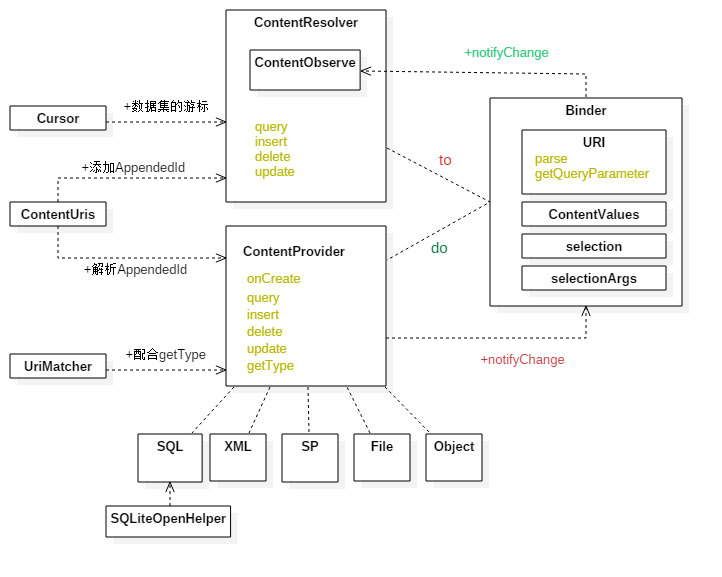
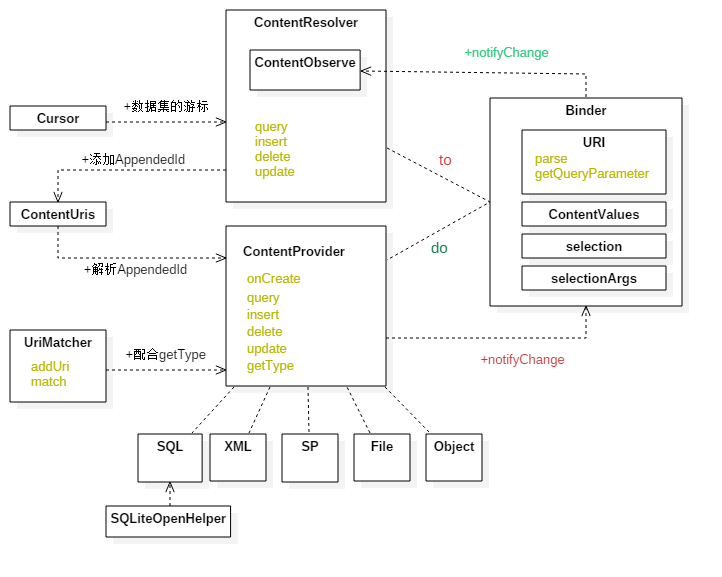
change

Changed region(s): [[0.0, 0.5615, 0.1524, 0.7175], [0.0914, 0.2496, 0.3047, 0.312]]

diff --git a/_posts/2019-09-09-ContentProvider-2019.md b/_posts/2019-09-09-ContentProvider-2019.md
@@ -22,29 +22,13 @@ tags:                               #标签
 
 
 
-### 原理
+### 原理介绍
 
-<img src="../img/post/android/picture/contentProvider_theory.png" />
-
-
-
-### 作用
-
-contentProvider 的作用是为应用提供不同数据的接口，用过contentProvider统一获取资源。
+<img src="https://www.crabglory.club/img/post/android/picture/contentProvider_theory.png" />
 
 
 
-
-
-### 使用
-
-URL：contentProvider 用来处理资源定位
-
-ContentUris：解析URI中的id
-
-UriMatcher：根据自己设定的URI，来匹配客户端发来的URI
-
-
+主要是两个主类：ContentResolve 和 ContentProvider
 
 
 
